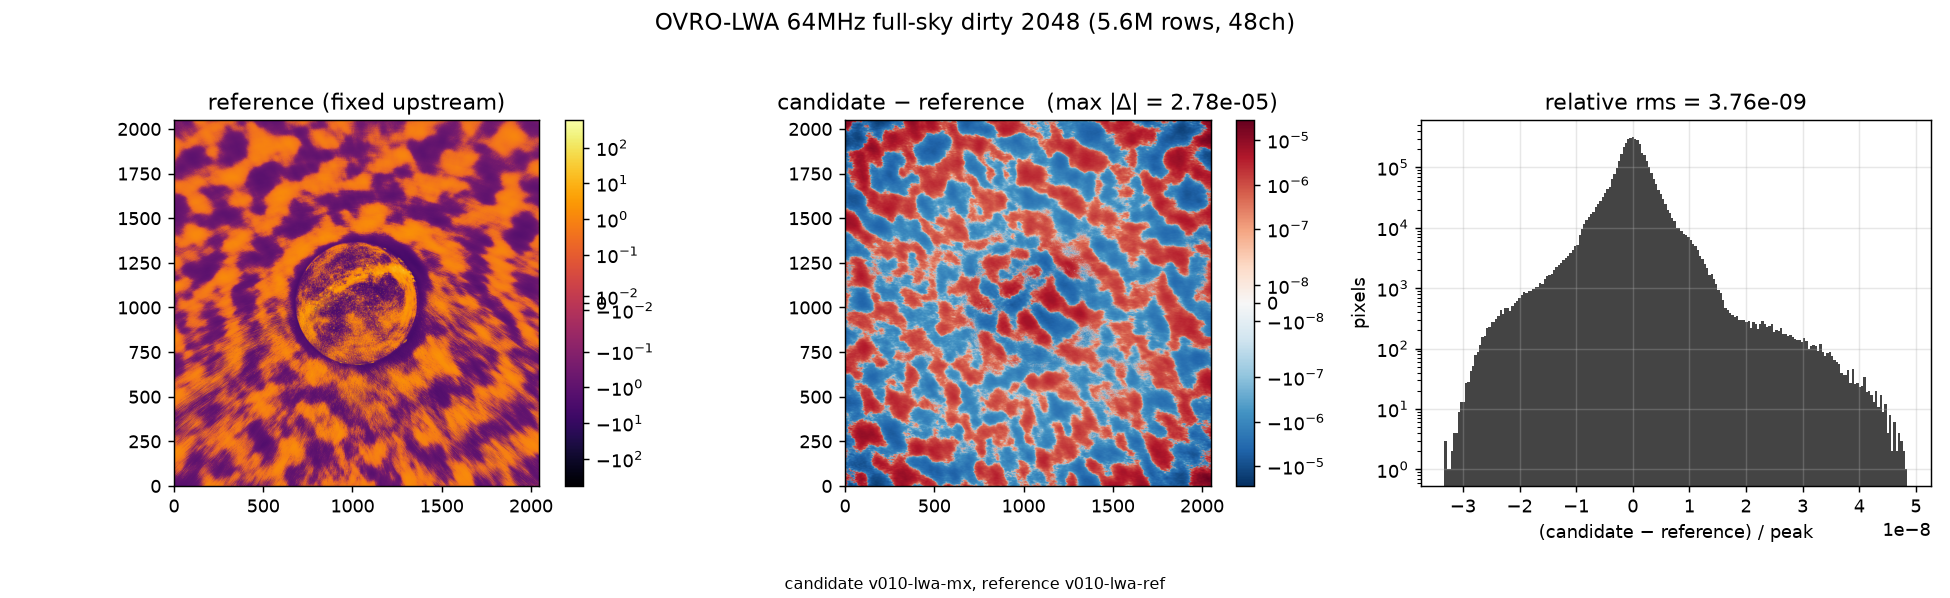
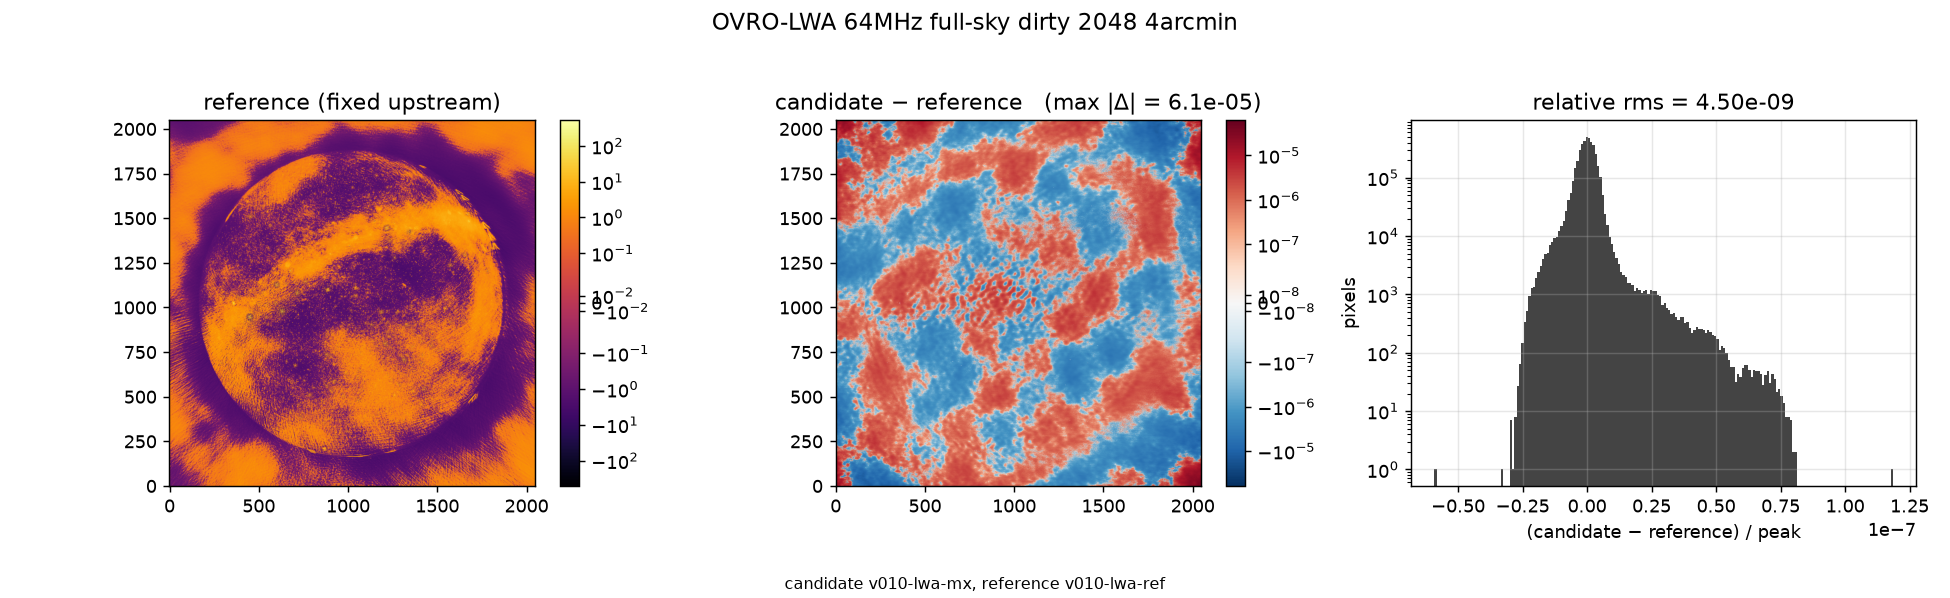
lwa 4arcmin redo: dirty pass 1.8x, clean chaos documented, timing plot

diff --git a/bench/plot_lwa4.py b/bench/plot_lwa4.py
@@ -1,0 +1,60 @@
+#!/usr/bin/env python3
+# SPDX-License-Identifier: GPL-3.0-or-later
+# Copyright (C) 2026 Peijin Zhang
+"""LWA 4arcmin benchmark plot: wall + stage splits, ref vs mx.
+
+Run: .venv/bin/python bench/plot_lwa4.py
+"""
+from pathlib import Path
+import re
+
+import matplotlib
+matplotlib.use('Agg')
+import matplotlib.pyplot as plt
+
+ROOT = Path(__file__).resolve().parents[1]
+RUNS = [
+    ('dirty\nref', 'v010-lwa4-ref/reffix-verified'),
+    ('dirty\nmx', 'v010-lwa4-mx/v010-rc1'),
+    ('clean\nref', 'v010-lwa4clean-ref/reffix-verified'),
+    ('clean\nmx', 'v010-lwa4clean-mx/v010-rc1'),
+]
+STAGE_RE = re.compile(
+    r'Inversion:\s*(\d+):(\d+):([\d.]+),\s*prediction:\s*(\d+):(\d+):([\d.]+),\s*'
+    r'deconvolution:\s*(\d+):(\d+):([\d.]+)')
+
+
+def seconds(match, base):
+    return (float(match[base]) * 3600 + float(match[base + 1]) * 60
+            + float(match[base + 2]))
+
+
+def main():
+    labels, inv, pred, dec = [], [], [], []
+    for label, tag in RUNS:
+        run = ROOT / 'bench/out' / tag
+        match = STAGE_RE.search((run / 'wsclean.log').read_text(errors='ignore'))
+        labels.append(label)
+        inv.append(seconds(match.groups(), 0))
+        pred.append(seconds(match.groups(), 3))
+        dec.append(seconds(match.groups(), 6))
+    figure, axis = plt.subplots(figsize=(7.5, 4.4))
+    bottom = [0.0] * len(labels)
+    for values, name in ((inv, 'inversion'), (pred, 'prediction'),
+                         (dec, 'deconvolution')):
+        axis.bar(labels, values, bottom=bottom, label=name)
+        bottom = [b + v for b, v in zip(bottom, values)]
+    for i, (a, b, c) in enumerate(zip(inv, pred, dec)):
+        axis.text(i, a + b + c + 2, f'{a + b + c:.0f}s', ha='center', fontsize=9)
+    axis.set_ylabel('seconds')
+    axis.set_title('LWA 64 MHz full-sky 2048 4arcmin, -j8\n'
+                   'dirty 46.5 vs 25.8 s (1.80x) — clean 170.5 vs 147.3 s '
+                   '(deconv 18.8 vs 4.0 s)')
+    axis.legend()
+    figure.tight_layout()
+    figure.savefig(ROOT / 'docs/bench/v010-lwa4-timing.png', dpi=100)
+    print('wrote v010-lwa4-timing.png')
+
+
+if __name__ == '__main__':
+    main()

diff --git a/docs/science-gates.md b/docs/science-gates.md
@@ -554,6 +554,17 @@ peak-finder negligible), and the dominant sample is thread
 nothing. CPU verdict on this workload: at the ducc0-kernel floor, no
 patch-side target remains.
 
+Finer pixel scale (2026-10-20): same field re-imaged at 2048² 4arcmin
+(`v010-lwa4{,-clean}-{ref,mx}`). Dirty T2 PASS, 46.5 vs 25.8 s (1.80×).
+Clean: dirty + PSF PASS T2, but restored/model/residual diverge at pixel
+level (rel rms 4.6e-3) with source-correlated dipole residuals around
+bright sources — the deep-clean chaos regime (3000 iterations, finer
+beam, more components than the 10arcmin run). Component-level photometry
+is identical: same top-5 component positions/fluxes, same peaks
+(448.48/508.94), model sums within 0.4%. Same documented property as the
+point testbed: T2-pixel is the wrong gate for deep cleans; photometry and
+envelopes agree. Clean walls 170.5 vs 147.3 s (deconv 18.8 vs 4.0 s).
+
 ## Status of the wider release question
 
 Correctness (tests, selection, allocation, time units) is repaired and reviewed. Performance was re-measured and the earlier regression retracted (see `throttle-validation-2026-10-18.md`). On the evidence above:
